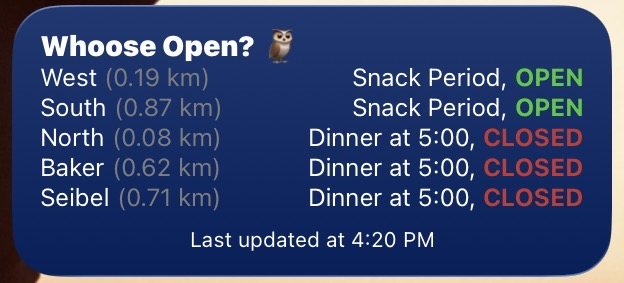
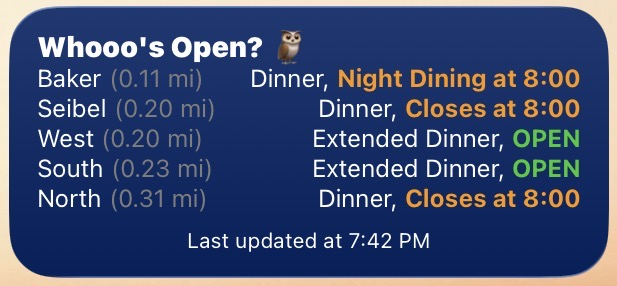
fix: my spelling

diff --git a/build/widget.js b/build/widget.js
@@ -463,6 +463,7 @@ async function init() {
 	body.vertical();
 
 	const title = body.addLabel("TitleLabel", "Whooo's Open? 🦉");
+	title.object.centerAlignText();
 	title.font = Font.boldSystemFont(16);
 
 	const locations = [
@@ -494,7 +495,7 @@ async function init() {
 					days: ["Monday", "Tuesday", "Wednesday", "Thursday"],
 					start: "20:00",
 					end: "22:00",
-					topic: "Late Night Dining",
+					topic: "Night Dining",
 				},
 			],
 		},

diff --git a/src/main.js b/src/main.js
@@ -16,6 +16,7 @@ async function init() {
 	body.vertical();
 
 	const title = body.addLabel("TitleLabel", "Whooo's Open? 🦉");
+	title.object.centerAlignText();
 	title.font = Font.boldSystemFont(16);
 
 	const locations = [
@@ -47,7 +48,7 @@ async function init() {
 					days: ["Monday", "Tuesday", "Wednesday", "Thursday"],
 					start: "20:00",
 					end: "22:00",
-					topic: "Late Night Dining",
+					topic: "Night Dining",
 				},
 			],
 		},
